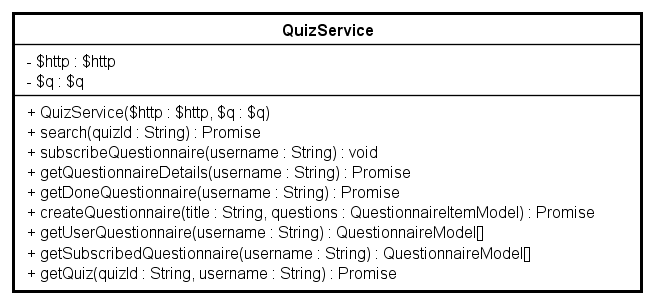
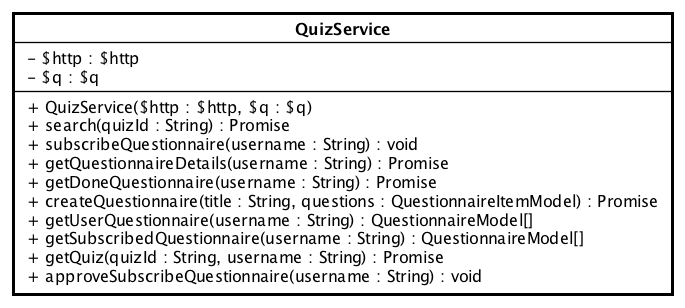
Modifiche QuizServcie

Changed region(s): [[0.0, 0.0296, 1.0, 0.977]]

diff --git a/RP/DefinizioneDiProdotto/sezioni/Front-End/Services/QuizziPedia_Front-End_Services_QuizService.tex b/RP/DefinizioneDiProdotto/sezioni/Front-End/Services/QuizziPedia_Front-End_Services_QuizService.tex
@@ -70,7 +70,7 @@
 	\begin{itemize}
 		\item \texttt{username: String} \\ Parametro che indica l'utente del quale scaricare i quiz a cui risulta iscritto.
 	\end{itemize}
-	\item \texttt{+ subscribeQuestionnaire(username: String): void} \\ Metodo che approva l'iscrizione di un determinato utente ad un quesitonario.
+	\item \texttt{+ approveSubscribeQuestionnaire(username: String): void} \\ Metodo che approva l'iscrizione di un determinato utente ad un quesitonario.
 	\textbf{Parametri}:
 	\begin{itemize}
 		\item \texttt{username: String} \\ Parametro che indica l'utente da abilitare ad un questionario.
